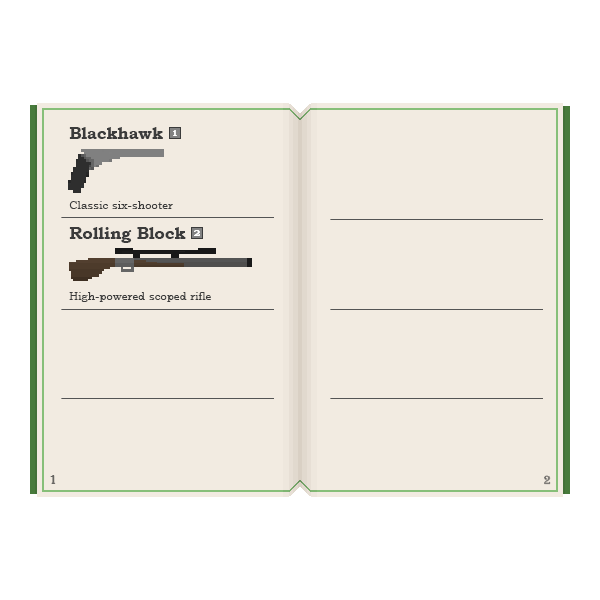
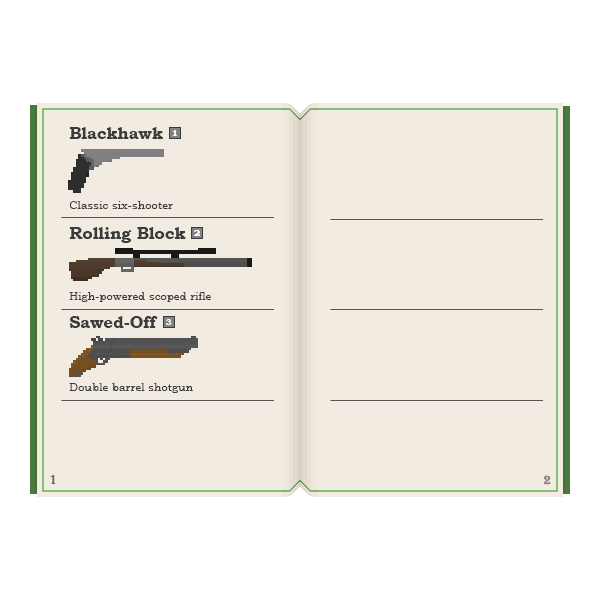
setup for sawed-off

Changed region(s): [[0.12, 0.51, 0.45, 0.69], [0.57, 0.66, 0.9, 0.69]]

diff --git a/main.py b/main.py
@@ -47,6 +47,8 @@ if collapse:
     revolverReloadSpeed = 500
     sniperRoundsMag = 1
     sniperRoundsTotal = 3
+    buckRoundsMag = 2
+    buckRoundsTotal = 6
     hpPotionCount = 5
     drinkTime = 100
     score = 0
@@ -112,6 +114,7 @@ if collapse:
     scopeScreen = False
     insideShop = False
     ownSniperRifle = True
+    ownSawedOff = True
     catalog = False
     catalogPage1 = False
     catalogPage2 = False
@@ -174,8 +177,8 @@ if collapse:
 
 # audio
 if collapse:
-    masterVolume = 0.3  # 1 # (0-1)
-    musicVolume = 0  # 1  # (0-1)
+    masterVolume = 1  # (0-1)
+    musicVolume = 1  # (0-1)
     step = pygame.mixer.Sound('assets/sounds/step.wav')
     woodstep = pygame.mixer.Sound('assets/sounds/woodstep.wav')
     intro = pygame.mixer.Sound('assets/sounds/start_music.wav')
@@ -234,8 +237,12 @@ if collapse:
     asset_revolver_left = pygame.image.load("assets/weapons/revolver_left.png")
     asset_sniper_left = pygame.image.load("assets/weapons/rolling_block_left.png")
     asset_sniper_right = pygame.image.load("assets/weapons/rolling_block_right.png")
+    asset_sawed_off_left = pygame.image.load("assets/weapons/sawed_off_left.png")
+    asset_sawed_off_right = pygame.image.load("assets/weapons/sawed_off_right.png")
     asset_muzzleflash_right = pygame.image.load("assets/weapons/muzzle_flash_bullet_right.png")
     asset_muzzleflash_left = pygame.image.load("assets/weapons/muzzle_flash_bullet_left.png")
+    asset_muzzleflash_buck_right = pygame.image.load("assets/weapons/muzzle_flash_buck_right.png")
+    asset_muzzleflash_buck_left = pygame.image.load("assets/weapons/muzzle_flash_buck_left.png")
     asset_sniperscope = pygame.image.load("assets/weapons/sniper_scope.png")
     asset_bandit1_fp = pygame.image.load("assets/npc/bandit1_fp.png")
     asset_bandit2_fp = pygame.image.load("assets/npc/bandit2_fp.png")
@@ -1250,7 +1257,7 @@ def resetValues():
         playerRoll1Left, playerRoll2Left, playerRoll3Left, rolling, rollReady, cooldown_sweat_y, walkingLeft, \
         walkingRight, walkingBoth, musicIconButtonClicked, musicIconButtonHover, masterIconButtonClicked, \
         masterIconButtonHover, revolverOutAmmo, sniperOutAmmo, revolverOutMag, sniperOutMag,looting,\
-        showMoneyGainedText
+        showMoneyGainedText, buckRoundsMag, buckRoundsTotal,ownSawedOff
 
     # player vals
     playerHP = 100
@@ -1260,6 +1267,8 @@ def resetValues():
     revolverFireRate = 120
     sniperRoundsMag = 1
     sniperRoundsTotal = 3
+    buckRoundsMag = 2
+    buckRoundsTotal = 6
     hpPotionCount = 0
     score = 0
 
@@ -1305,6 +1314,7 @@ def resetValues():
     scopeScreen = False
     insideShop = False
     ownSniperRifle = True
+    ownSawedOff = True
     catalog = False
     catalogPage1 = False
     catalogPage2 = False
